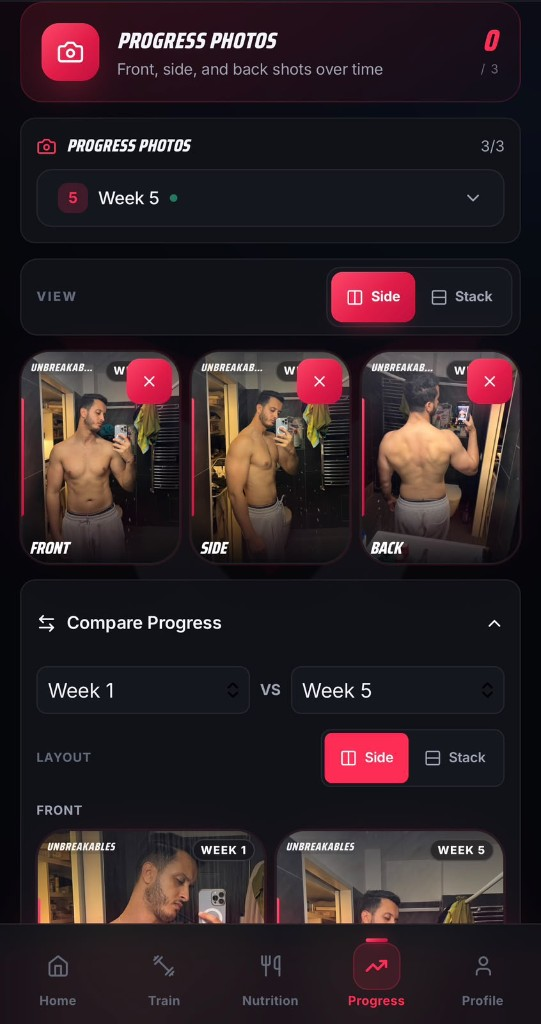
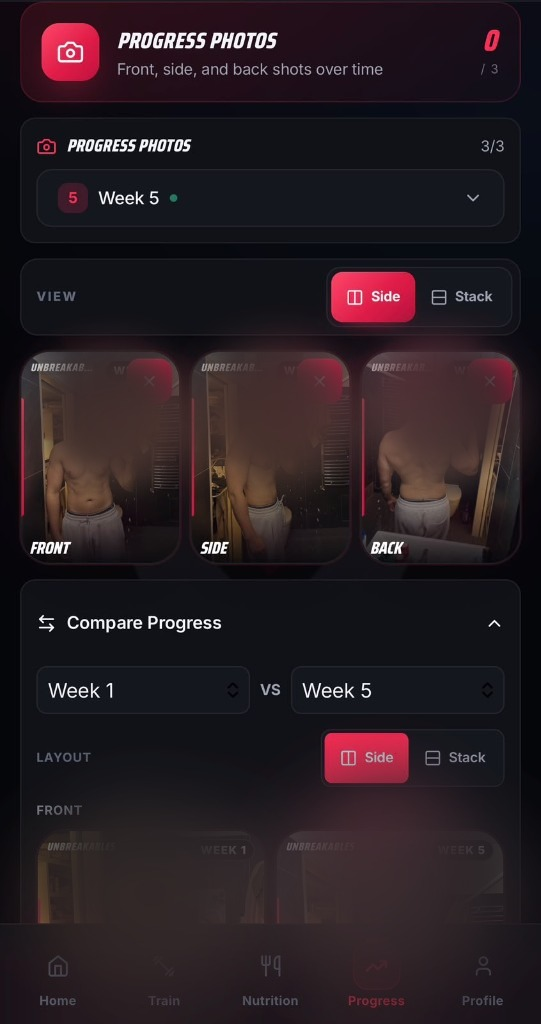
Blur client faces in app photos and show Arabic + English Hybrid covers.
Privacy-blur faces in the Progress Photos mockup, and display both Darija and English program covers on the Hybrid Build page for every language.

diff --git a/src/pages/HybridBuild.tsx b/src/pages/HybridBuild.tsx
@@ -147,14 +147,32 @@ const HybridBuild = () => {
             <div className={`lg:col-span-6 ${isRTL ? "lg:order-1" : ""}`}>
               <div
                 data-hb
-                className="relative z-0 mx-auto w-full max-w-[380px] overflow-hidden border border-white/10 bg-[#0a0a0a]"
+                className={`grid grid-cols-2 gap-3 md:gap-4 max-w-[560px] ${
+                  isRTL ? "mr-0 ml-auto" : "mx-auto lg:ml-auto lg:mr-0"
+                }`}
               >
-                <img
-                  src={ASSETS.hybridCover}
-                  alt="Hybrid Build program cover"
-                  className="block w-full h-auto max-h-[70vh] object-contain object-top"
-                  fetchPriority="high"
-                />
+                <figure className="overflow-hidden border border-white/10 bg-[#0a0a0a]">
+                  <img
+                    src={ASSETS.hybridCoverDarija}
+                    alt="Hybrid Build cover · Arabic"
+                    className="block w-full h-auto object-contain object-top"
+                    fetchPriority="high"
+                  />
+                  <figcaption className="px-2.5 py-2 font-editorial text-[10px] uppercase tracking-[0.16em] text-white/55 text-center border-t border-white/10">
+                    {language === "fr" ? "Arabe" : language === "ar" ? "العربية" : "Arabic"}
+                  </figcaption>
+                </figure>
+                <figure className="overflow-hidden border border-white/10 bg-[#0a0a0a]">
+                  <img
+                    src={ASSETS.hybridCoverEn}
+                    alt="Hybrid Build cover · English"
+                    className="block w-full h-auto object-contain object-top"
+                    fetchPriority="high"
+                  />
+                  <figcaption className="px-2.5 py-2 font-editorial text-[10px] uppercase tracking-[0.16em] text-white/55 text-center border-t border-white/10">
+                    {language === "fr" ? "Anglais" : language === "ar" ? "الإنجليزية" : "English"}
+                  </figcaption>
+                </figure>
               </div>
             </div>
           </div>

diff --git a/src/lib/constants.ts b/src/lib/constants.ts
@@ -43,6 +43,8 @@ export const ASSETS = {
   gymPortrait: "/hero-placeholder.jpg",
   doorwayPortrait: "/hero-placeholder-v2.jpg",
   hybridCover: "/hybrid-training-cover.jpg",
+  hybridCoverEn: "/hybrid-cover-en.jpg",
+  hybridCoverDarija: "/hybrid-cover-darija.jpg",
   mehdiTransformBefore: "/transformation-11-before.png",
   mehdiTransformAfter: "/transformation-11-after.png",
   finalCtaPortrait: "/about-me.jpg",
